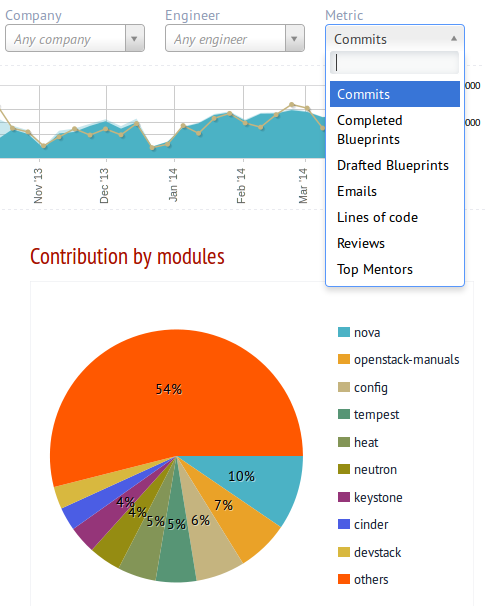
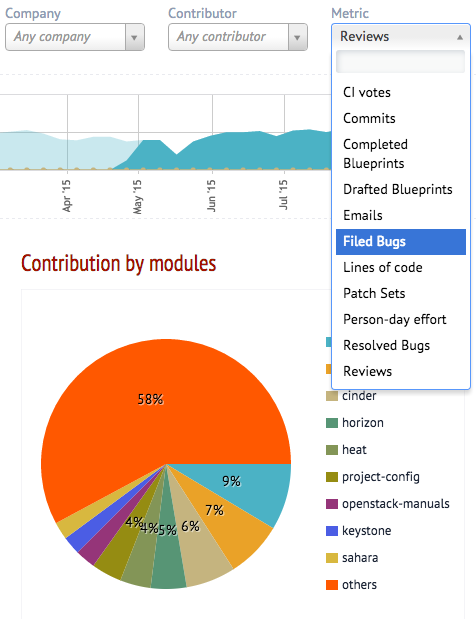
Update Relevance metrics
Relevance metrics from Stackalytics updated to current list.
Screenshot image height fixed at 500px.

Closes-Bug: #1491251

diff --git a/doc/upstream-training/source/02-relevant-actors.rst b/doc/upstream-training/source/02-relevant-actors.rst
@@ -32,17 +32,22 @@ Relevance metrics
 
 .. rst-class:: colleft
 
+- CI votes
 - Commits
-- Completed blueprints
-- Drafted blueprints
+- Completed Blueprints
+- Drafted Blueprints
 - Emails
+- Filed Bugs
 - Lines of code
+- Patch Sets
+- Person-day effort
+- Resolved Bugs
 - Reviews
-- Mentoring
 
 .. rst-class:: colright
 
 .. image:: ./_assets/02-02-relevance-metrics.png
+   :height: 500 px
 
 Company snapshot
 ================
